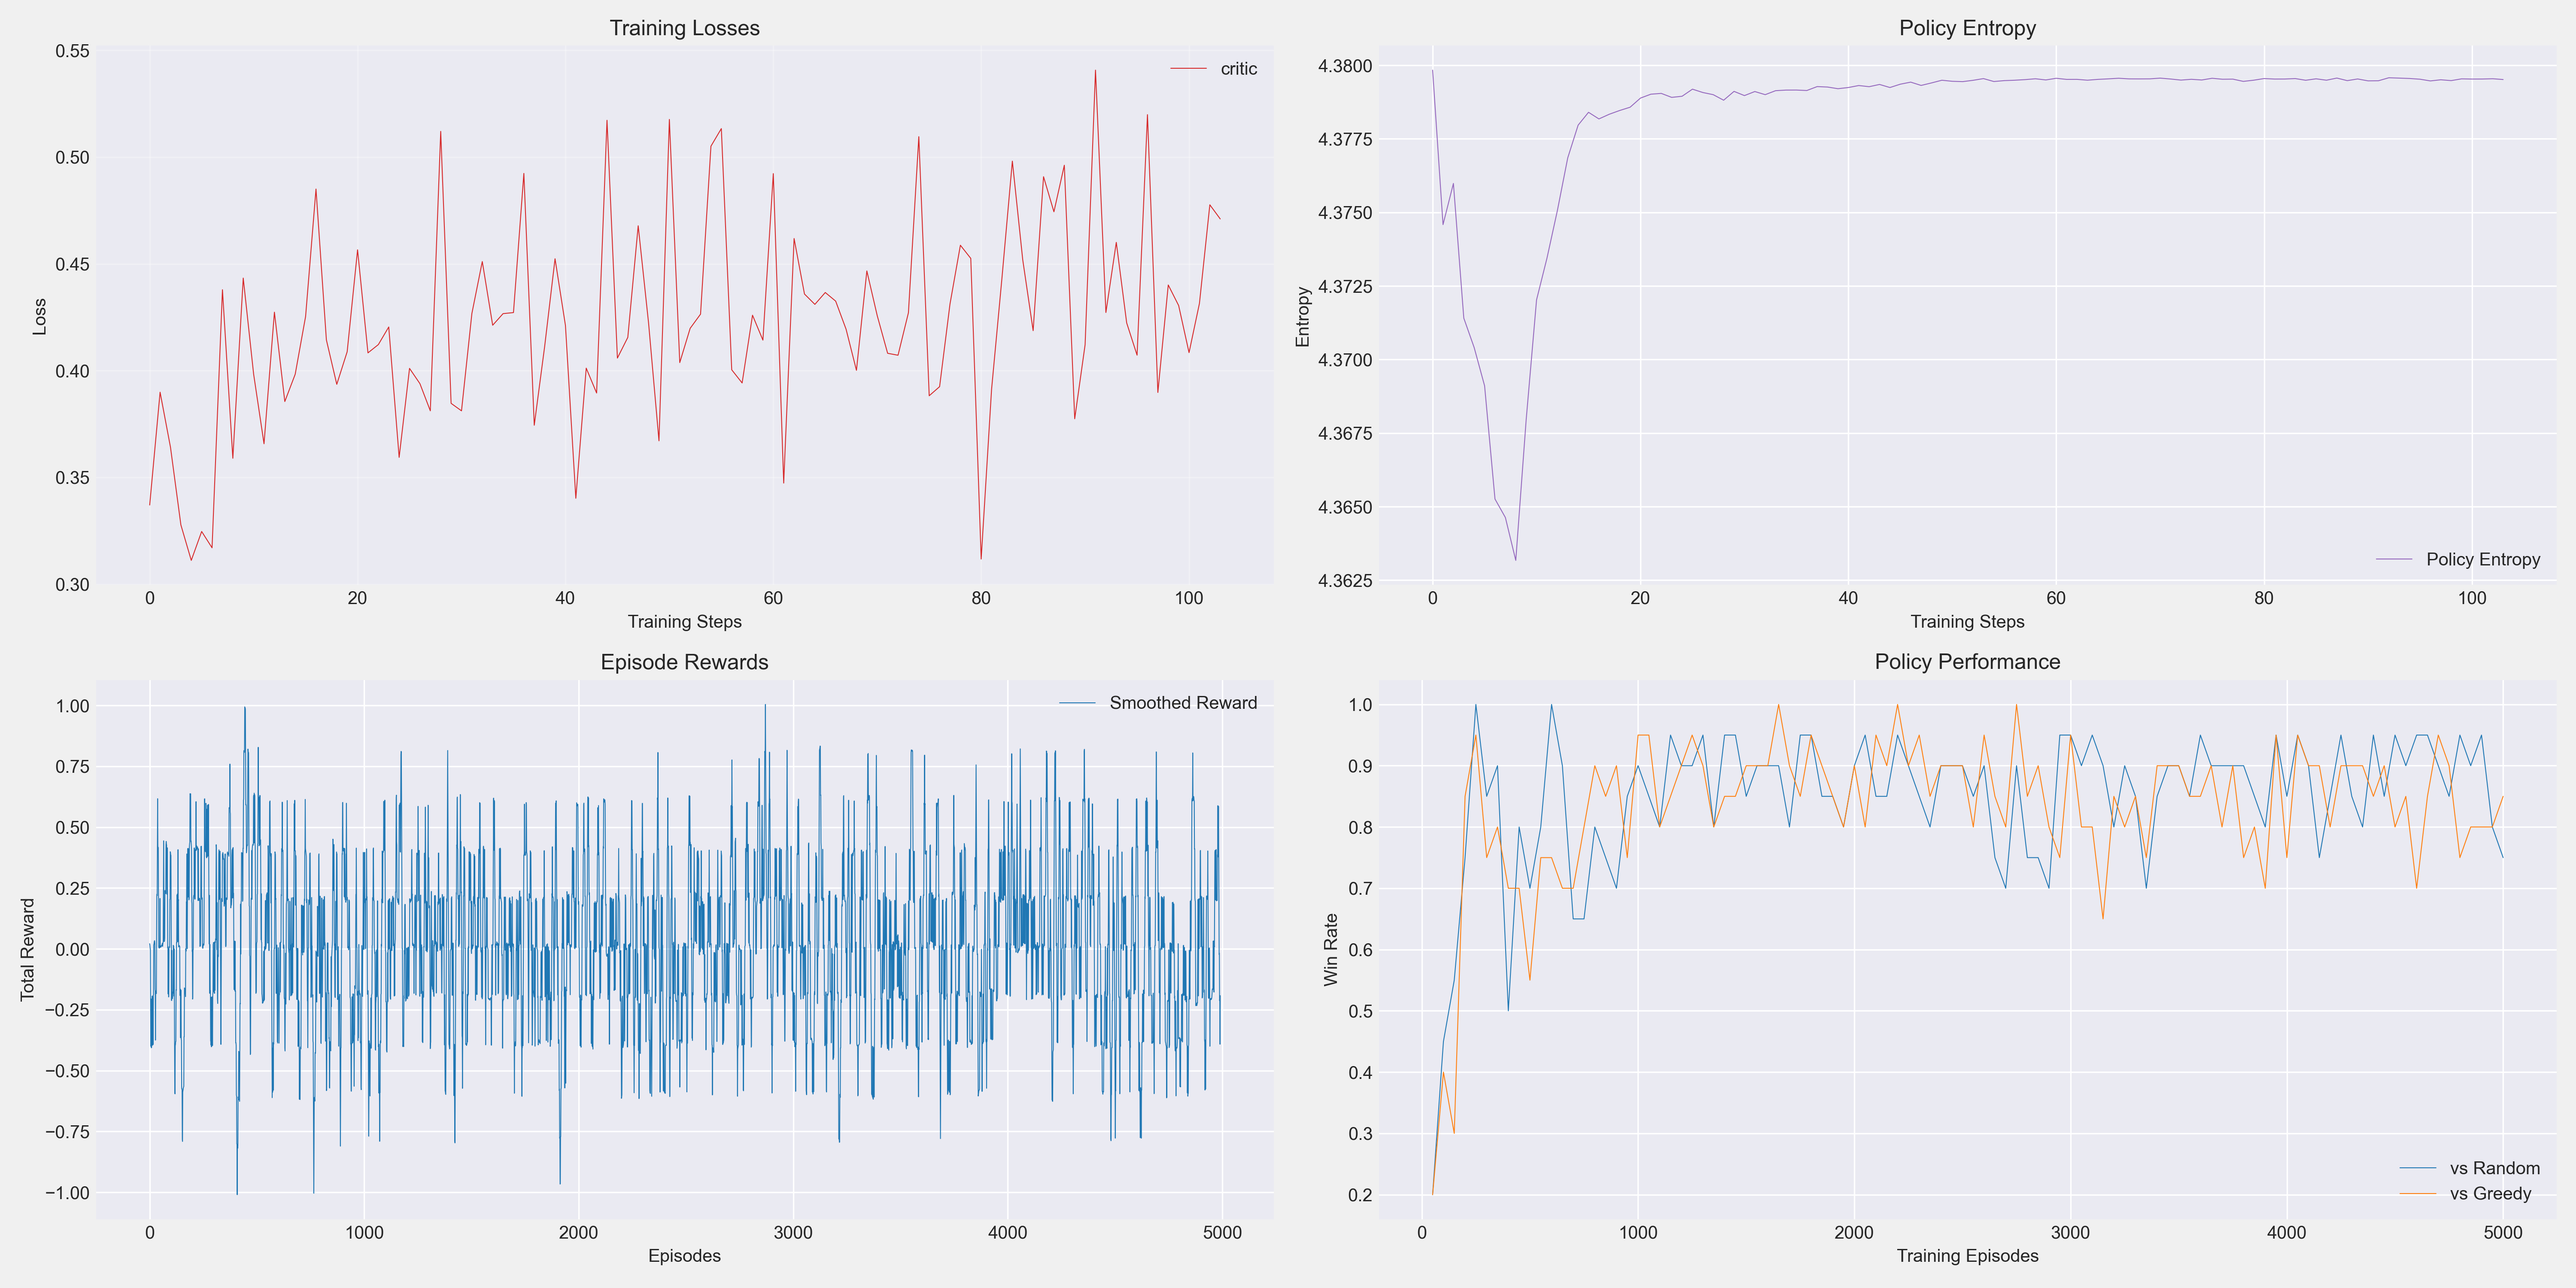
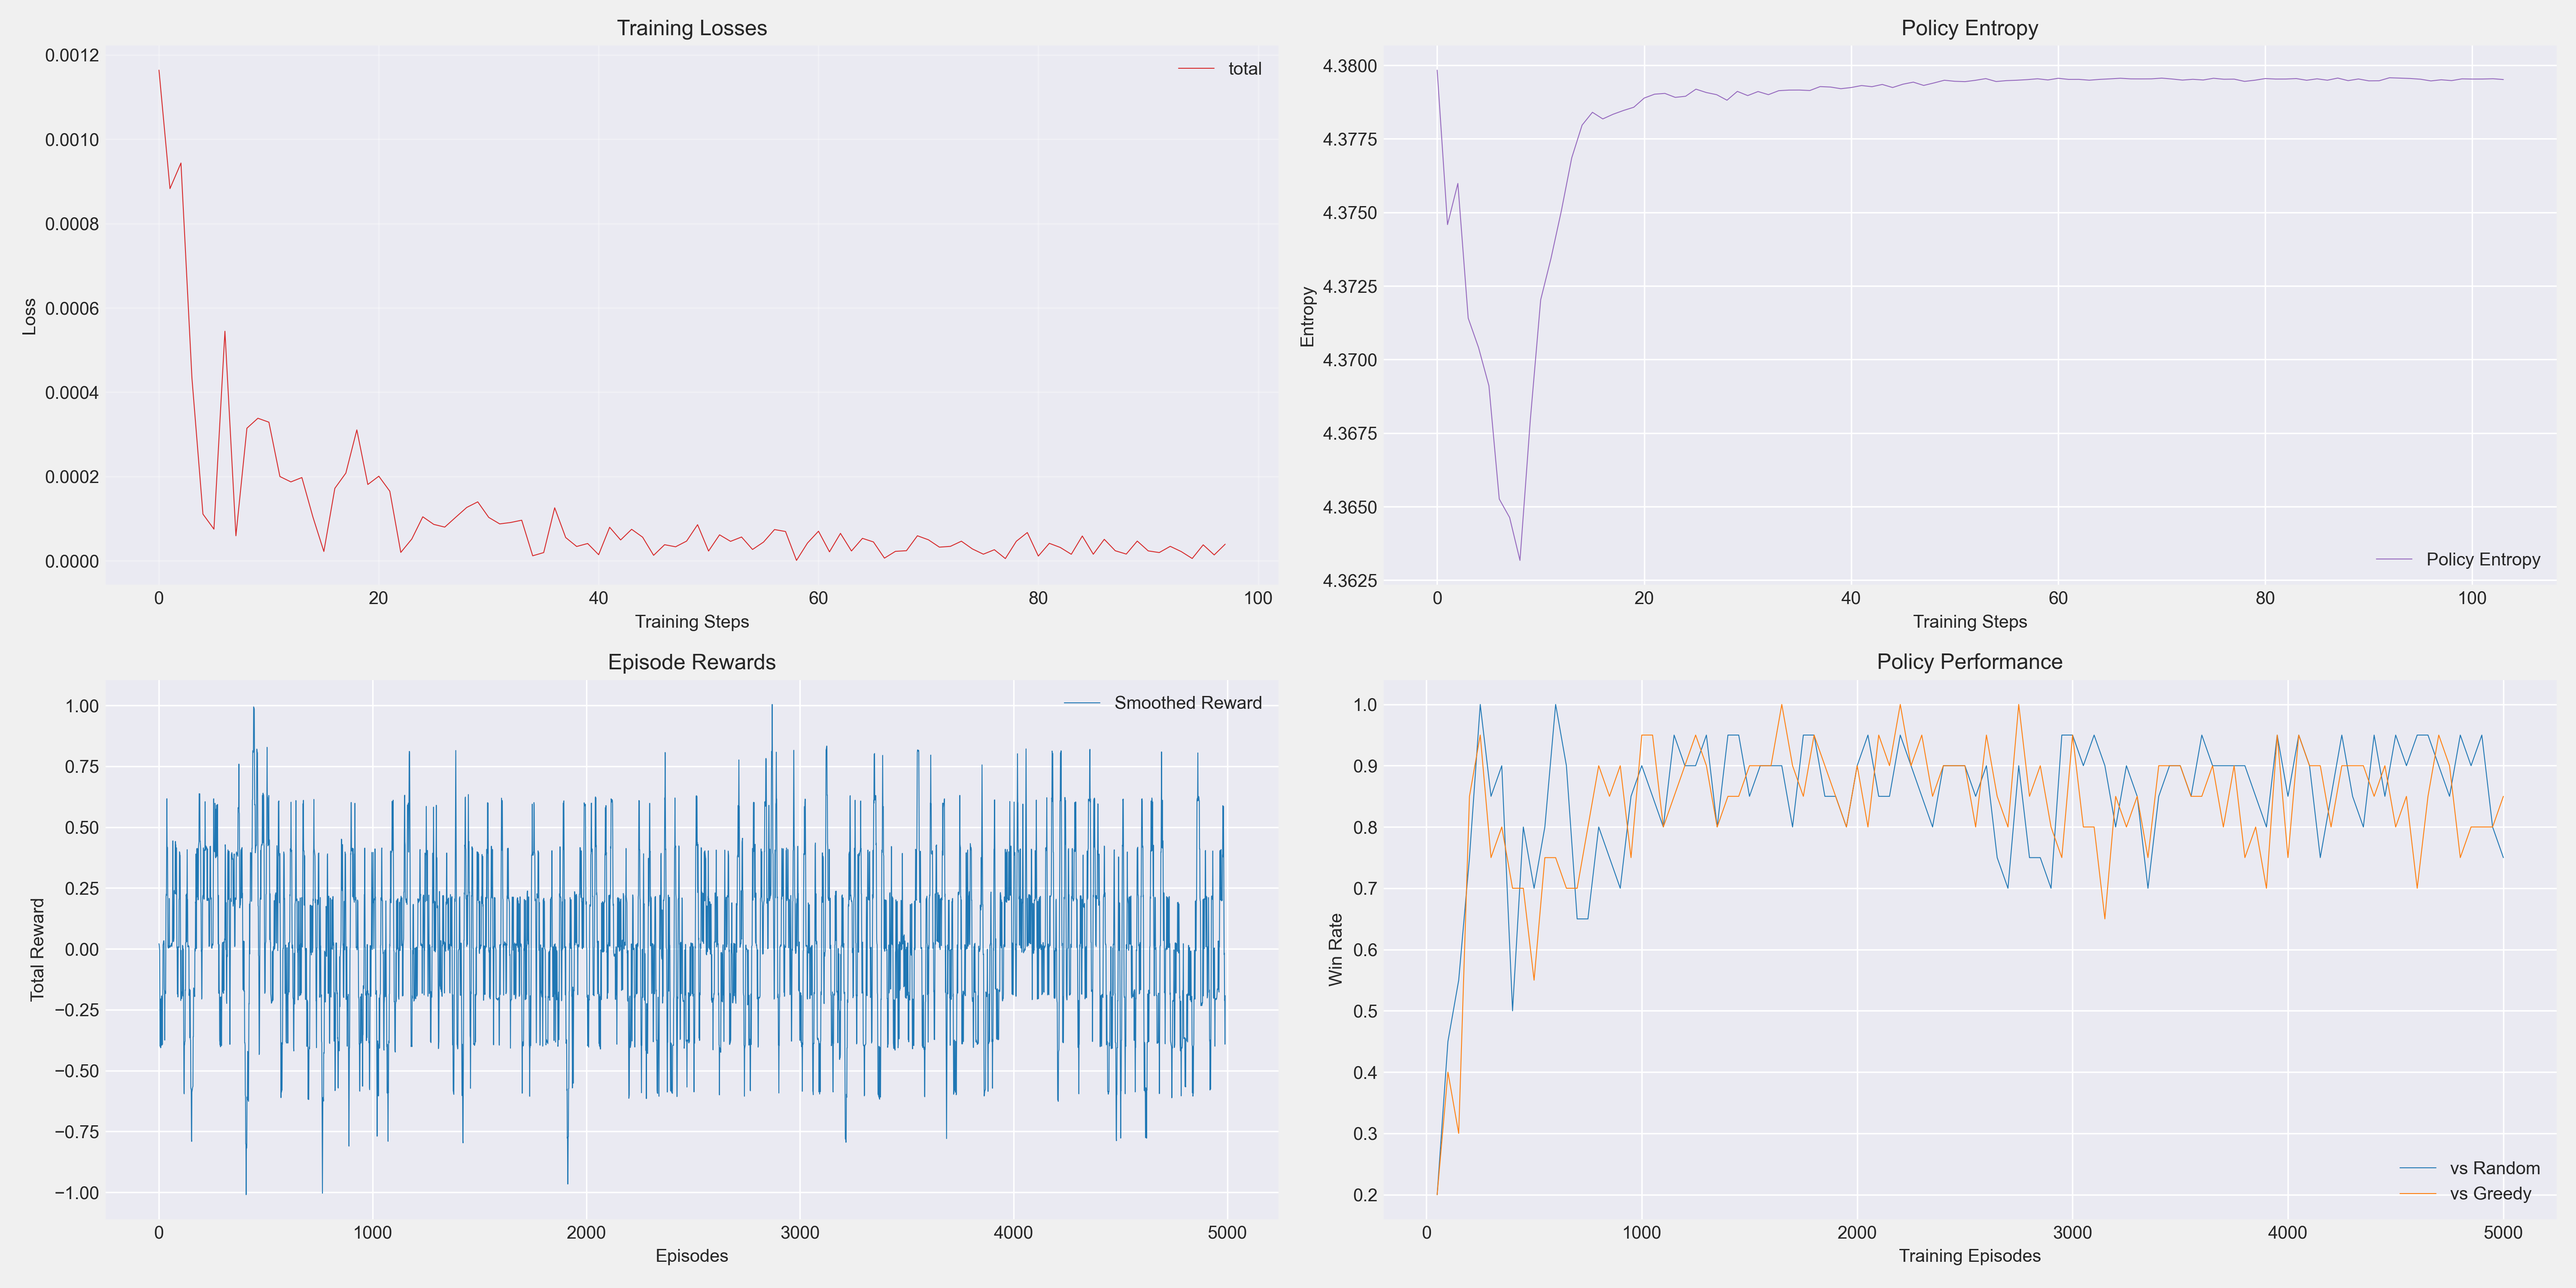
nunu 0508

diff --git a/train_ppo.py b/train_ppo.py
@@ -214,6 +214,8 @@ class PPOAgent:
                 total_loss.backward()
                 nn.utils.clip_grad_norm_(self.policy.parameters(), self.max_grad_norm)
                 self.optimizer.step()
+                
+                
             
             # calculate the average KL divergence for each epoch
             mean_approx_kl = np.mean(approx_kl_divs) if approx_kl_divs else 0
@@ -335,6 +337,7 @@ def train_ppo(env, episodes=1000, resume=False, checkpoint_path=None, use_reward
             'original_rewards': []  # record the original reward
         }
         all_rewards = []
+        all_losses = []
         best_win_rate = -1.0
     
     win_rates = []
@@ -373,6 +376,7 @@ def train_ppo(env, episodes=1000, resume=False, checkpoint_path=None, use_reward
         state = env.reset()
         episode_rewards = []
         total_reward = 0
+        total_losses = 0
         done = False
         
         while not done:
@@ -396,6 +400,7 @@ def train_ppo(env, episodes=1000, resume=False, checkpoint_path=None, use_reward
             episode_rewards.append(reward)
             total_reward += reward
             
+            
             # store the shaped reward in the buffer
             agent.store_transition((
                 state, action_idx, log_prob.item(), reward, done, value.item()
@@ -411,11 +416,14 @@ def train_ppo(env, episodes=1000, resume=False, checkpoint_path=None, use_reward
                 episode_rewards = []
                 # record training metrics
                 if agent.loss_history['actor'] and agent.loss_history['critic']:
+                    total_losses += agent.loss_history['total'][-1]
                     metrics['policy_losses'].append(agent.loss_history['actor'][-1])
                     metrics['value_losses'].append(agent.loss_history['critic'][-1])
                     metrics['entropies'].append(agent.loss_history['entropy'][-1])
         
         all_rewards.append(total_reward)
+        if total_losses > 0:
+            all_losses.append(total_losses/(ep+1))
         
         if ep % 10 == 0 and use_reward_shaping:
             metrics['shaped_rewards'].append(total_reward)
@@ -519,10 +527,11 @@ def train_ppo(env, episodes=1000, resume=False, checkpoint_path=None, use_reward
 
     # loss curve
     plt.subplot(2, 2, 1)
-    loss_keys = ['critic']
-    colors = [TECH_RED, TECH_BLUE, TECH_ORANGE]
-    for i in range(len(loss_keys)):
-        plt.plot(agent.loss_history[loss_keys[i]], label=loss_keys[i], color=colors[i], linestyle='-', linewidth=0.5)
+    # loss_keys = ['total']
+    # colors = [TECH_RED, TECH_BLUE, TECH_ORANGE]
+    # for i in range(len(loss_keys)):
+    #     plt.plot(agent.loss_history[loss_keys[i]], label=loss_keys[i], color=colors[i], linestyle='-', linewidth=0.5)
+    plt.plot(all_losses[1:], label='total', color=TECH_RED, linestyle='-', linewidth=0.5)
     plt.xlabel('Training Steps')
     plt.ylabel('Loss')
     plt.title('Training Losses')
